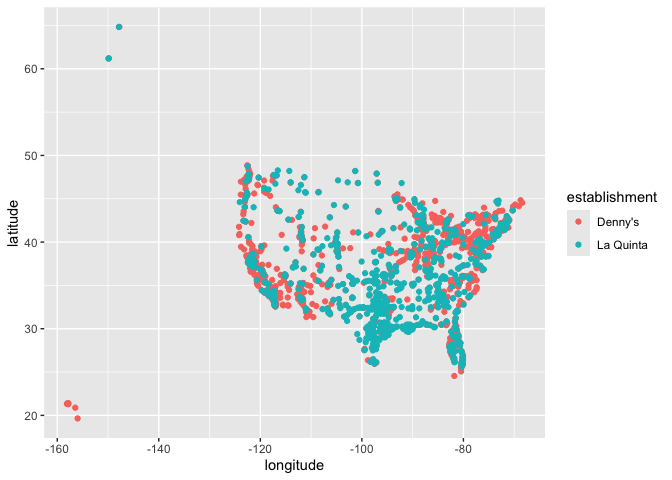
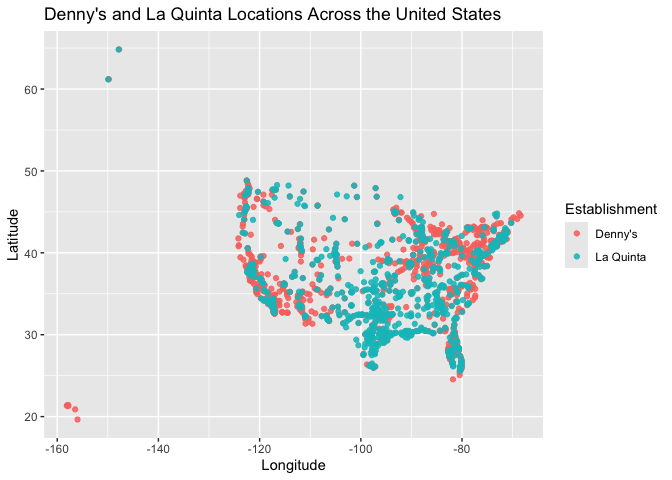
more cleaning up of lab 4 formatting

diff --git a/lab-04.md b/lab-04.md
@@ -155,7 +155,11 @@ ggplot(dn_lq, mapping = aes(
   y = latitude,
   color = establishment
 )) +
-  geom_point()
+  geom_point(alpha = .85) +
+  labs(title = "Denny's and La Quinta Locations Across the United States",
+       x = "Longitude",
+       y = "Latitude",
+       color = "Establishment")
 ```
 
 ![](lab-04_files/figure-gfm/exercise10-1.png)<!-- -->
@@ -170,12 +174,18 @@ ggplot(NConly, mapping = aes(
   y = latitude,
   color = establishment
 )) +
-  geom_point()
+  geom_point() +
+    labs(title = "Denny's and La Quinta Locations In North Carolina",
+       x = "Longitude",
+       y = "Latitude",
+       color = "Establishment")
 ```
 
 ![](lab-04_files/figure-gfm/exercise11-1.png)<!-- -->
 
 ### Exercise 12
+
+The joke most certainly holds for Texas, but only sort of for NC.
 
 ``` r
 TXonly <- dn_lq %>%
@@ -185,11 +195,11 @@ ggplot(TXonly, mapping = aes(
   y = latitude,
   color = establishment
 )) +
-  geom_point()
+  geom_point(alpha = .75) +
+    labs(title = "Denny's and La Quinta Locations In Texas",
+       x = "Longitude",
+       y = "Latitude",
+       color = "Establishment")
 ```
 
 ![](lab-04_files/figure-gfm/exercise12-1.png)<!-- -->
-
-``` r
-#The joke most certainly holds for texas, but only sort of for NC 
-```
